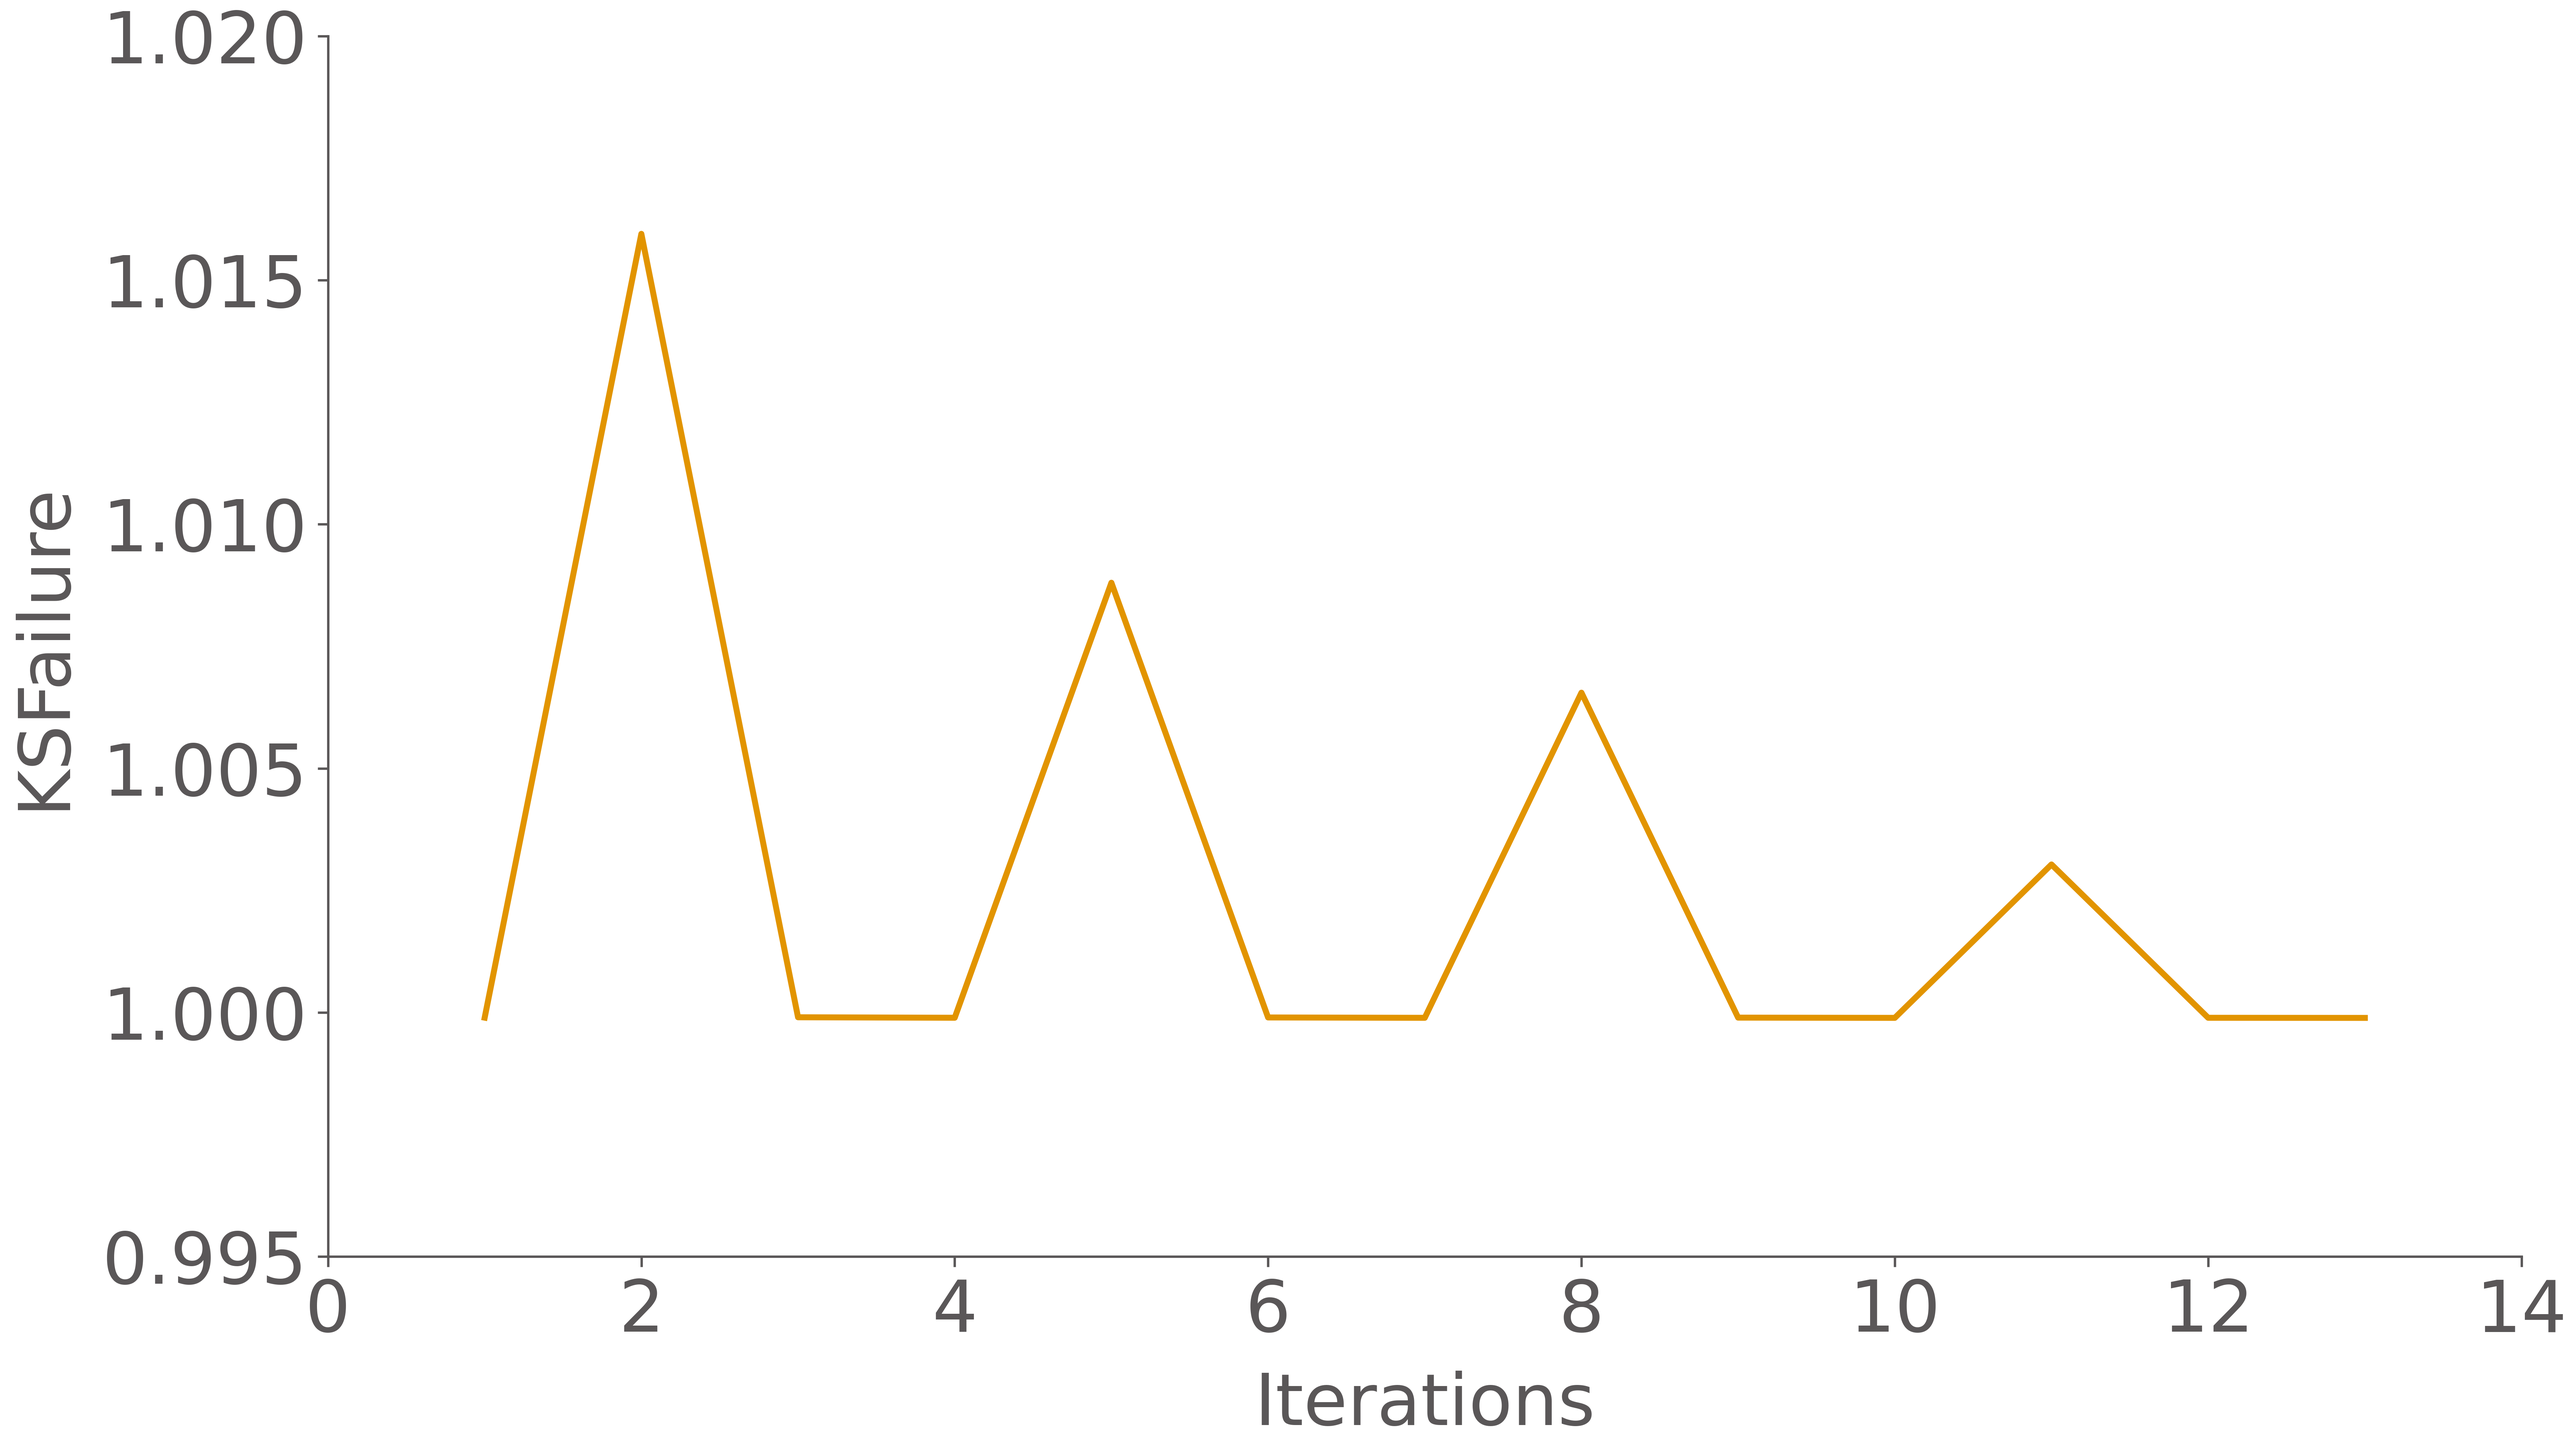
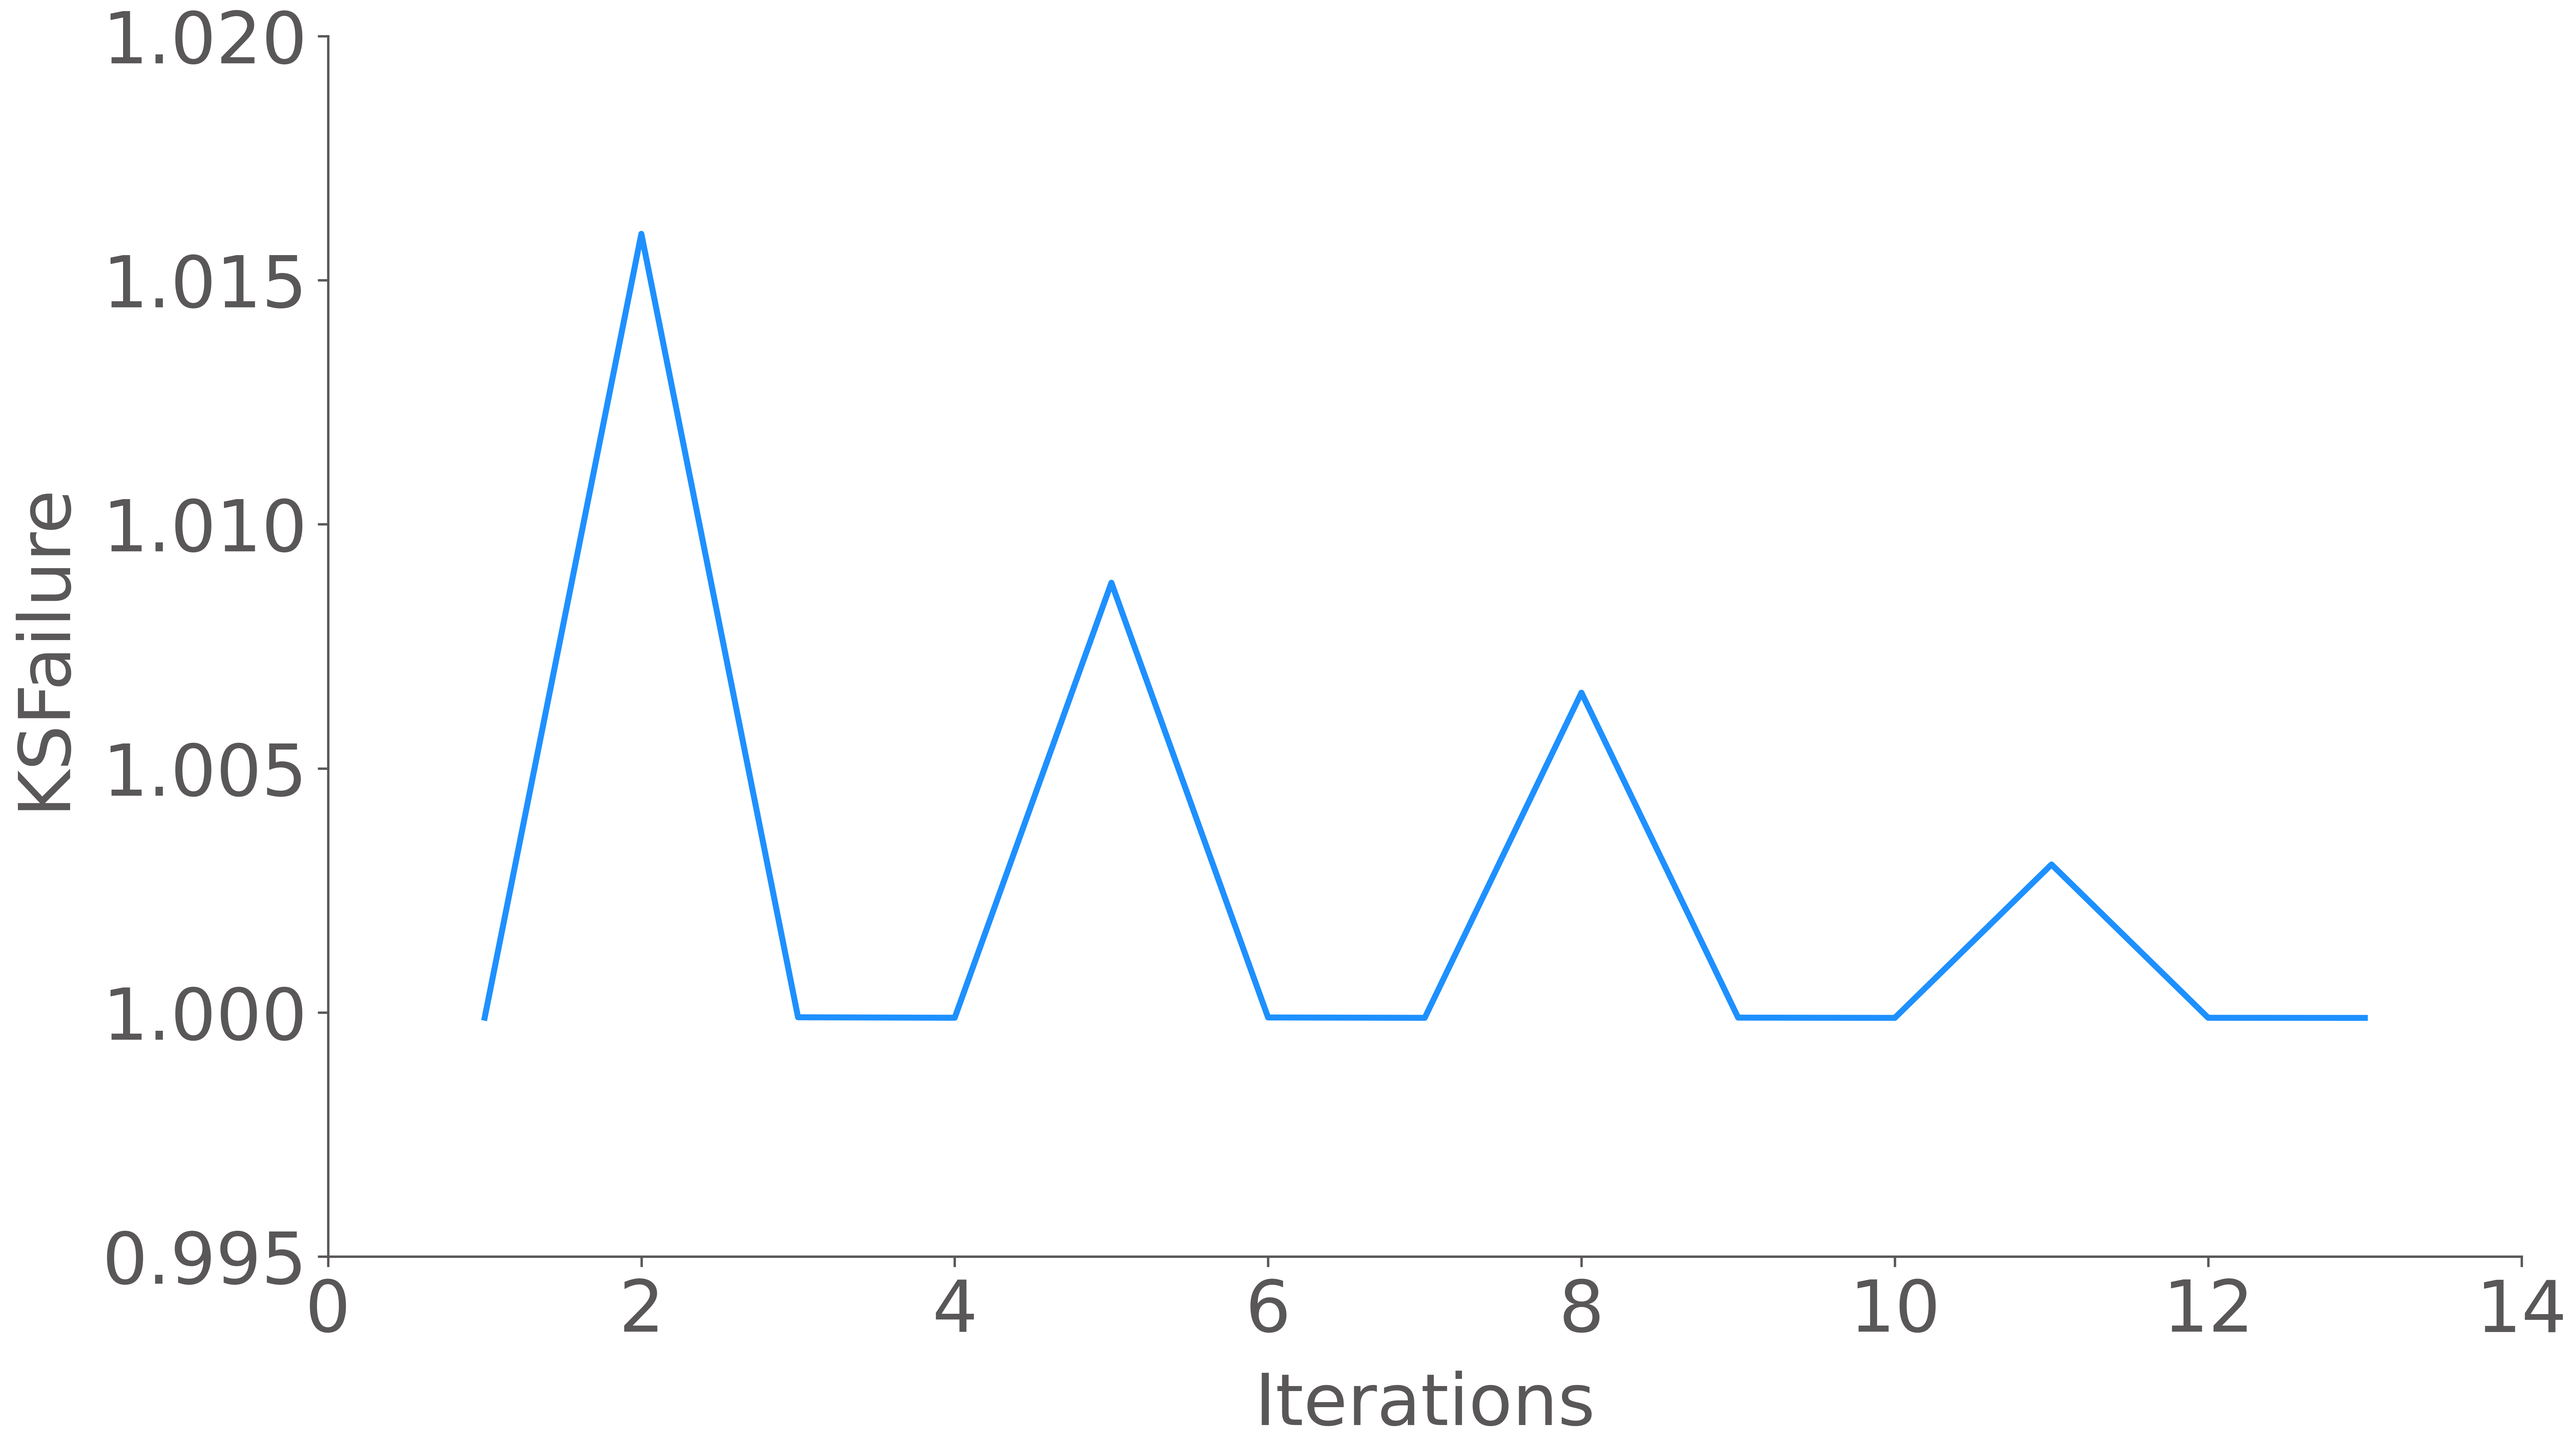
updated plotting script

diff --git a/results/plotConvergenceHistory.py b/results/plotConvergenceHistory.py
@@ -58,7 +58,7 @@ for number in jobs:
 
     niceplots.setRCParams()
 
-    plt.plot(iterations, funcValues)
+    plt.plot(iterations, funcValues,color='C1')
     plt.xlabel('Iterations')
     plt.ylabel(objFunc)
     plt.savefig(case + '_' + objFunc + '_' + regime + '.png')
